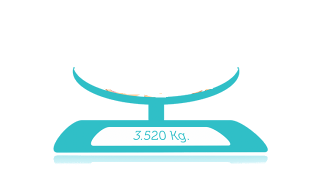
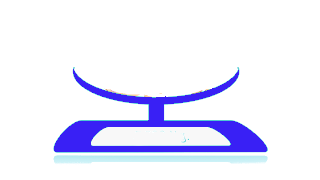
last update

Changed region(s): [[0.1562, 0.3889, 0.8438, 0.8611]]

diff --git a/www/js/doctor.js b/www/js/doctor.js
@@ -37,24 +37,24 @@ class Doctor extends Person {
         this.bull.style.marginLeft = "54px";
         this.bull.style.marginTop = "-20px";
         this.bull.style.zIndex = 2;
-        this.p.textContent = "Comment il va aujourd'hui?";
+        this.p.textContent = "How is he doing today?";
         let talkMum = document.addEventListener("keypress", function (event) {
             if (event.keyCode === 13) {
                 let bull = document.querySelector("#talkDoct");
                 bull.style.display = 'none';
                 let bullMum = document.querySelector("#talkMum");
                 bullMum.style.display = "inline-block";
-                bullMum.style.position="absolute";
-                bullMum.style.marginLeft = "710px";
-                bullMum.style.marginTop = "-16px";
+                bullMum.style.position = "absolute";
+                bullMum.style.marginLeft = "588px";
+                bullMum.style.marginTop = "-10px";
                 bullMum.style.zIndex = 2;
                 let p = document.querySelector("#talkMum p");
-                p.textContent = "il a de la fievre et tousse un peu";
+                p.textContent = "he has fever and coughs a little";
             }
 
         });
 
-        /*npour maman: je laisse celui la et j'enleve bordur du doct ou tcolorer*/
+
 
     }
     toExamine() {
@@ -83,10 +83,10 @@ class Doctor extends Person {
         spritDoct.classList.add("doctExam");
         let bull = document.querySelector("#talkDoct");
         bull.style.display = "inline-block";
-        bull.style.marginLeft = "50px";
-        bull.style.marginTop = "-36px";
+        bull.style.marginLeft = "42px";
+        bull.style.top = "-40px";
         bull.style.zIndex = 2;
-        this.p.textContent = "Calme toi mon petit loulou";
+        this.p.textContent = "Calm down my little loulou";
     }
     toWeigh() {
         let mumy = document.querySelector("#mumy");
@@ -95,6 +95,11 @@ class Doctor extends Person {
         this.spritDoct.classList.add("doctWeight");
         this.spritBaby.style.display = "block";
         this.spritBaby.classList.add("bbWeight");
+        let balance = document.querySelector("#balance");
+        balance.style.display = "block";
+        balance.style.width = "180px";
+        balance.style.marginLeft = "-24px";
+        balance.style.marginTop = "98px";
 
         this.happy.style.color = "green";
         this.happy.textContent = "Happiness: 0 %";
@@ -110,7 +115,11 @@ class Doctor extends Person {
         mumy.style.display = "none";
         this.bull.style.display = 'none';
         this.spritDoct.classList.add("doctVaccin");
+        
         this.spritBaby.style.display = "block";
+        let balance = document.querySelector("#balance");
+        balance.style.display = "none";
+       
         this.spritBaby.classList.add("bbVaccin");
 
         this.happy.style.color = "green";
@@ -145,7 +154,7 @@ class Doctor extends Person {
         this.bull.style.marginLeft = "28px";
         this.bull.style.marginTop = "-116px";
         this.bull.style.zIndex = 2;
-        this.p.textContent = "s'il a de la fièvre donne lui doliprane , bonne journée et à la prochaine";
+        this.p.textContent = "if he has fever give him doliprane, have a good day and see you next time";
         let talkMum = document.addEventListener("keypress", function (event) {
             if (event.keyCode === 13) {
                 let bull = document.querySelector("#talkDoct");
@@ -153,11 +162,11 @@ class Doctor extends Person {
                 let bullMum = document.querySelector("#talkMum");
                 bullMum.style.display = "inline-block";
                 bullMum.style.position = "absolute";
-                bullMum.style.left = "708px";
-                bullMum.style.top = "407px";
+                bullMum.style.left = "2px";
+                bullMum.style.top = "432px";
                 bullMum.style.zIndex = 2;
                 let p = document.querySelector("#talkMum p");
-                p.textContent = "D'accord, au revoir doctor :) ";
+                p.textContent = "Okay, goodbye doctor :) ";
             }
 
         });

diff --git a/www/js/app.js b/www/js/app.js
@@ -1,45 +1,45 @@
 //use strict
 
 /*play song*/
-document.getElementById('btnplay').onclick = function() {
+document.getElementById('btnplay').onclick = function () {
   document.getElementById('player').play();
   return false;
 }
-document.getElementById('btnpause').onclick = function() {
+document.getElementById('btnpause').onclick = function () {
   document.getElementById('player').pause();
   return false;
 }
 /**
  * 
  */
-let temp=document.querySelector("#temp");
-let cry=document.querySelector("#cry");
-let weight=document.querySelector("#weight");
-let happy=document.querySelector("#happiness");
+let temp = document.querySelector("#temp");
+let cry = document.querySelector("#cry");
+let weight = document.querySelector("#weight");
+let happy = document.querySelector("#happiness");
 
 
 let imgdoct = document.querySelector("#imgdoct");
 let butwelcome = document.querySelector("#buToWelcome");
 
 butwelcome.addEventListener('click', function (event) {
- event.preventDefault();
+  event.preventDefault();
 
   imgdoct.style.display = 'block';
   imgdoct.style.left;
   imgdoct.style.top;
-  
-  happy.style.color="red";
-  happy.textContent="Happiness: 90 %";
+
+  happy.style.color = "red";
+  happy.textContent = "Happiness: 90 %";
 
   let accDiv = document.querySelector("#accDiv");
   let bull = document.querySelector("#talkDoct");
-  bull.style.display="inline-block";
-  bull.style.marginLeft="46px";
-  bull.style.marginTop="-26px";
-  let nomBb=prompt("entrez un nom");
-  
-  let p=document.querySelector("#talkDoct p");
-  p.textContent=nomBb+" c'est à vous";
+  bull.style.display = "inline-block";
+  bull.style.marginLeft = "48px";
+  bull.style.top = "-20px";
+  let nomBb = prompt("Give a name");
+
+  let p = document.querySelector("#talkDoct p");
+  p.textContent = nomBb + " that's for you";
 });
 
 //pour les interactions
@@ -48,39 +48,39 @@ let newBbPatient = new BabyPatient();
 
 //newDoc.toNote(newBbPatient);
 
-let tonote=document.querySelector("#butToNote");
-tonote.addEventListener('click',function (event) {
+let tonote = document.querySelector("#butToNote");
+tonote.addEventListener('click', function (event) {
   event.preventDefault();
   newDoc.toNote(newBbPatient);
 });
-let toExam=document.querySelector("#butToExamine");
-toExam.addEventListener('click',function (event) {
+let toExam = document.querySelector("#butToExamine");
+toExam.addEventListener('click', function (event) {
   event.preventDefault();
   newDoc.toExamine(newBbPatient);
 });
-let toWeigh=document.querySelector("#butToWeigh");
-toWeigh.addEventListener('click',function (event) {
+let toWeigh = document.querySelector("#butToWeigh");
+toWeigh.addEventListener('click', function (event) {
   event.preventDefault();
   newDoc.toWeigh(newBbPatient);
 });
 
-let toVaccin=document.querySelector("#butVaccin");
-toVaccin.addEventListener('click',function (event) {
+let toVaccin = document.querySelector("#butVaccin");
+toVaccin.addEventListener('click', function (event) {
   event.preventDefault();
   newDoc.toVaccine(newBbPatient);
 });
-let toOrder=document.querySelector("#butOrder");
-toOrder.addEventListener('click',function (event) {
+let toOrder = document.querySelector("#butOrder");
+toOrder.addEventListener('click', function (event) {
   event.preventDefault();
   newDoc.toWriteOrder(newBbPatient);
 });
-let toHome=document.querySelector("#butHome");
-toHome.addEventListener('click',function (event) {
+let toHome = document.querySelector("#butHome");
+toHome.addEventListener('click', function (event) {
   event.preventDefault();
   newBbPatient.backHome();
 });
-let replay=document.querySelector("#butReplay");
-replay.addEventListener('click',function (event) {
+let replay = document.querySelector("#butReplay");
+replay.addEventListener('click', function (event) {
   event.preventDefault();
   window.location.reload();
 });

diff --git a/www/game.html b/www/game.html
@@ -31,7 +31,7 @@
                   </div>
             </div>
         <div id="spritBB">
-
+            <img src="./images/childs-weight2.png" alt="balance" id="balance">
         </div>
         <br>
         <div id="levels">
@@ -72,7 +72,7 @@
 
             <div id="mask">
                 <img src="./images/spritBaby.png" alt="">
-                <img src="./images/childs-weight2.png" alt="">
+                
             </div>
 
             <div class="btn-group" role="group" aria-label="Basic example">
@@ -110,9 +110,9 @@
     <div class="modal fade bs-example-modal-lg" tabindex="-1" role="dialog" aria-labelledby="myLargeModalLabel" aria-hidden="true">
         <div class="modal-dialog modal-lg">
             <div class="modal-content">
-                <strong class="titrAlert"> Oops </strong>
+                <strong class="titrAlert1"> Prenez soin de vous - Au revoir </strong>
 
-                <img src="images/GameOver.gif" alt="Good Bye"/>
+               <a href="index.html"> <img src="images/aurevoir.gif" alt="Good Bye"/></a>
             </div>
         </div>
     </div>

diff --git a/www/css/stylIndex.scss b/www/css/stylIndex.scss
@@ -153,8 +153,8 @@ background-size: 570px;
     background-position: -428px 5px;
 }
 #spritBB.bbWeight{
-    left: 696px;
-    top: 190px;
+    left: 714px;
+    top: 222px;
     background-position: -560px -326px;  
 }
 #spritBB.bbVaccin {
@@ -218,6 +218,12 @@ background-size: 570px;
  font-size: 30px;
 text-align: center;
 }
+.titrAlert1{
+    color: blue;
+    font-family: Verdana, Geneva, Tahoma, sans-serif;
+    font-size: 30px;
+   text-align: center;
+   }
 #mask {
     width: 65px;
     height: 80px;

diff --git a/www/css/stylIndex.css b/www/css/stylIndex.css
@@ -157,8 +157,8 @@
 }
 
 #spritBB.bbWeight {
-  left: 696px;
-  top: 190px;
+  left: 714px;
+  top: 222px;
   background-position: -560px -326px;
 }
 
@@ -220,6 +220,13 @@
 
 .titrAlert {
   color: red;
+  font-family: Verdana, Geneva, Tahoma, sans-serif;
+  font-size: 30px;
+  text-align: center;
+}
+
+.titrAlert1 {
+  color: blue;
   font-family: Verdana, Geneva, Tahoma, sans-serif;
   font-size: 30px;
   text-align: center;

diff --git a/www/css/talkbull.css b/www/css/talkbull.css
@@ -2,7 +2,7 @@
 .talk-bubble {
   display: none;
   position: relative;
-  width: 160px;
+  width: 280px;
   background-color: lightsalmon;
   z-index: 2px;
 }

diff --git a/www/css/talkbull.scss b/www/css/talkbull.scss
@@ -2,7 +2,7 @@
 .talk-bubble {
 	display: none;
 	position: relative;
-	width: 160px;
+	width: 280px;
   background-color: lightsalmon;
 	z-index: 2px;
 
